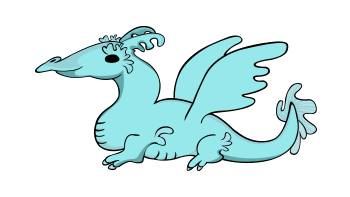
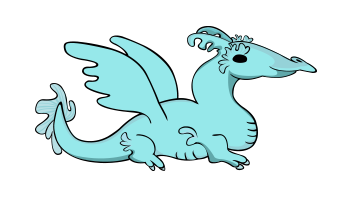
tercera actualización, html, css y js

Changed region(s): [[0.0857, 0.1218, 0.9143, 0.8832], [0.5143, 0.5482, 0.5429, 0.6091]]

diff --git a/js/main.js b/js/main.js
@@ -20,6 +20,7 @@ const jorney = document.getElementById("jorney")
 const sectionShowEnemyMonster = document.getElementById("show-enemy-monster");
 const enemyMonsterText = document.getElementsByClassName("enemy-monster-text")[0];
 const enemyMonsterImage = document.getElementById("enemy-monster-image");
+const combatStart = document.getElementById("combate");
 
 // ELEMENTOS DE SECTION PICK ATTACK
 const sectionPickAttack = document.getElementById("pick-attack");
@@ -62,7 +63,7 @@ sectionSelectMonster.style.display ='none'
 sectionShowPlayerMonster.style.display ='none'
 sectionShowEnemyMonster.style.display='none'
 sectionPickAttack.style.display ='none'
-sectionCombatResult.style.display ='none'
+sectionCombatResult.style.visibility ='hidden'
 sectionWinOrLostScreen.style.display ='none'
 
 //ENTRAR EN PANTALLA JUGAR
@@ -115,6 +116,12 @@ selectMonsterSlush.addEventListener('click', function() {
 
 // MONSTER ELEMENT ENEMIGO
 
+
+
+
+
+
+
 jorney.addEventListener("click", pickEnemyMonster)
 function pickEnemyMonster() {
     let randomPick = random(1,3)
@@ -122,7 +129,10 @@ function pickEnemyMonster() {
     if (randomPick == 1) {
             sectionSelectMonster.style.display = 'none';
             sectionShowPlayerMonster.style.display = 'none';
-            sectionShowEnemyMonster.style.display = 'initial'
+            sectionShowEnemyMonster.style.display = 'initial';
+
+            //AQUÍ DEBERÍA IR UN TEMPORIZADOR
+
             enemyMonsterText.textContent = "Has Encontrado a " + monsterPyro.name;
             enemyMonsterImage.innerHTML = `<img class="monster" src="${monsterPyro.image}" alt="${monsterPyro.name}"  width="500" />>`;
         } else if (randomPick == 2) {
@@ -144,5 +154,14 @@ function pickEnemyMonster() {
 }
 
 
+// COMIENZO DEL VIAJE
+// (COMBATE)
 
+combatStart.addEventListener("click", combatBoard)
+function combatBoard() {
+    sectionShowEnemyMonster.style.display = 'none';
+    sectionPickAttack.style.display = 'flex';
+
+
+}
 

diff --git a/index.html b/index.html
@@ -56,10 +56,19 @@
             <button id="combate">Combatir</button>
         </section>
         
+        <section id="combat-result">
+            <h2 id="attack-player-picked"></h2>
+            <h2 id="attack-enemy-picked"></h2>
+            <h2 id="result"></h2>
+            <img src="" alt="" id="image-result">
+
+AQUÍ DEBERÁ APARECER PANTALLA CON EL RESULTADO DEL COMBATE
+"HAS ELEGIDO ATAQUE X Y TU ENEMIGO UN ATAQUE X... <BR>RESULTADO: GANAS 3 PUNTOS Y AVANZAS O PIERDES 3 PUNTOS Y RETROCEDES"
+        </section>
         
         <section id="pick-attack">
         <h2>Elige el ataque con el que vas a combatir</h2>
-        <div class="tarjetas-ataque">
+        <div class="elementsAttack">
             <button id="fire-attack">Fuego 🔥</button>
             <button id="water-attack">Agua 💧</button>
             <button id="earth-attack">Tierra 🌎</button>
@@ -81,15 +90,7 @@
         </section>
 
         
-        <section id="combat-result">
-            <h2 id="attack-player-picked"></h2>
-            <h2 id="attack-enemy-picked"></h2>
-            <h2 id="result"></h2>
-            <img src="" alt="" id="image-result">
-
-AQUÍ DEBERÁ APARECER PANTALLA CON EL RESULTADO DEL COMBATE
-"HAS ELEGIDO ATAQUE X Y TU ENEMIGO UN ATAQUE X... <BR>RESULTADO: GANAS 3 PUNTOS Y AVANZAS O PIERDES 3 PUNTOS Y RETROCEDES"
-        </section>
+        
 
         
         <section id="win-or-lost-screen">

diff --git a/css/style.css b/css/style.css
@@ -6,18 +6,39 @@ body {
 
 }
 
-.board {
+#pick-attack {
+    display: flex;
+    flex-direction: column;
+    align-items: center;
+    justify-content: flex-start;
+    align-content: center;
+}
+
+#board {
     display: flex;
     background-color: aliceblue;
-    width: 1200px;
+    width: 800px;
     border:10px solid white;
   
 }
 .cell {
-    width: 100px;
-	height: 150px;
+    width: 70px;
+	height: 90px;
     background-color: red;
     border: 5px solid #36979d;;
 }
+#enemy-monster-image {
+    transform: scaleX(-1);
+    -moz-transform: scaleX(-1); /* Firefox */
+    -webkit-transform: scaleX(-1); /* Chrome - Safari */
+    -o-transform: scaleX(-1);
+}
+
+#combat-result {
+    display: flex;
+    width: 500px;
+    height: 500px;
+}
+
 
 
